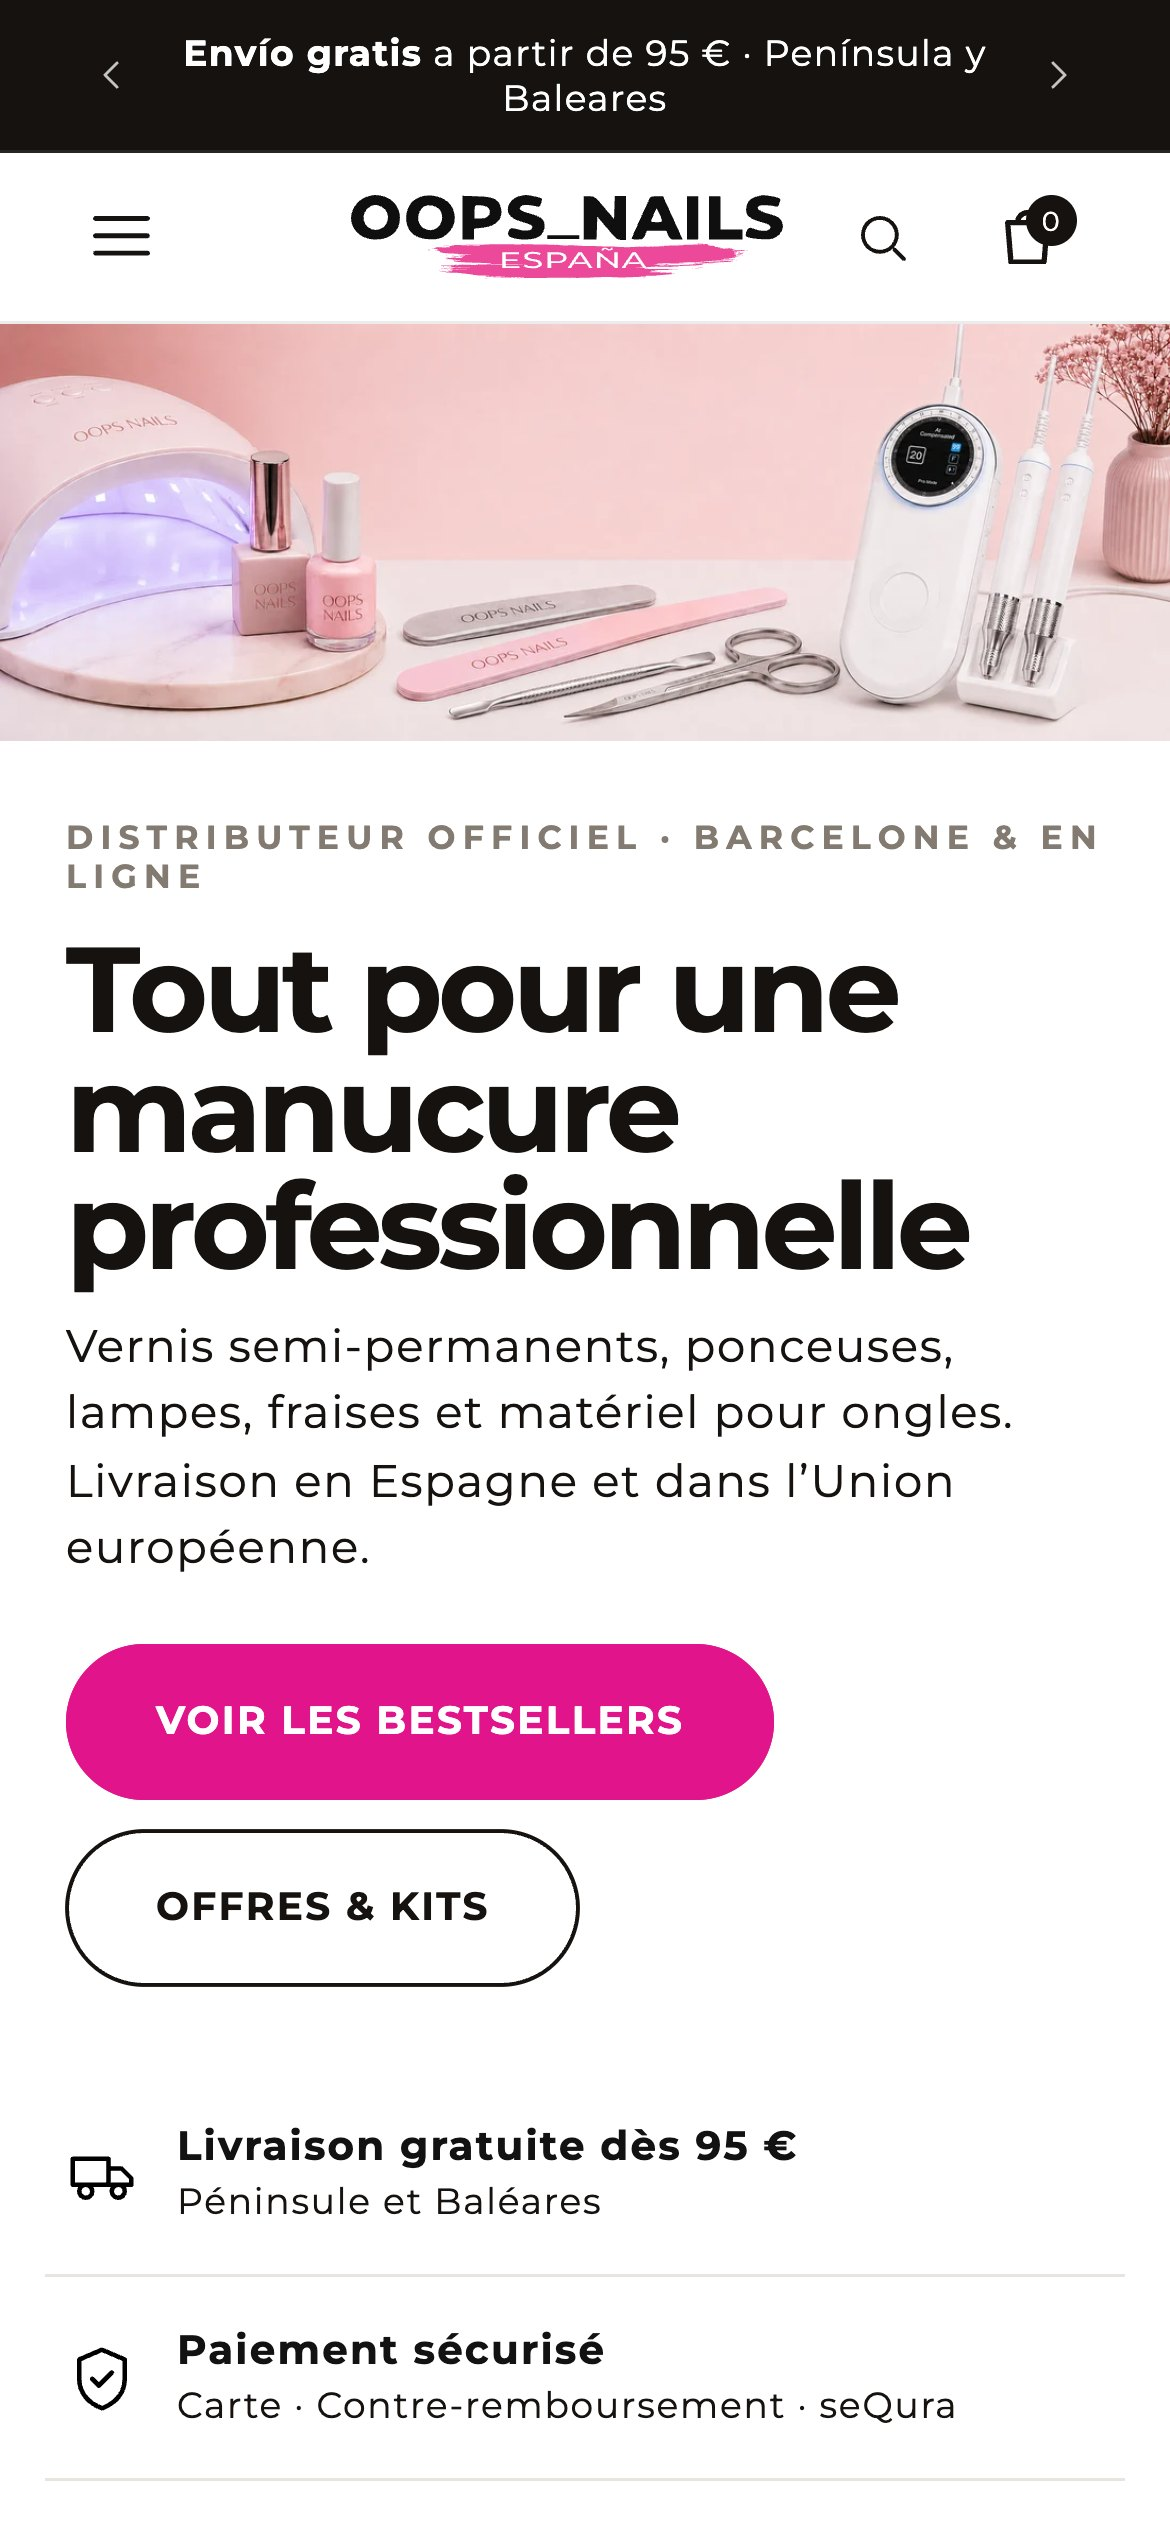
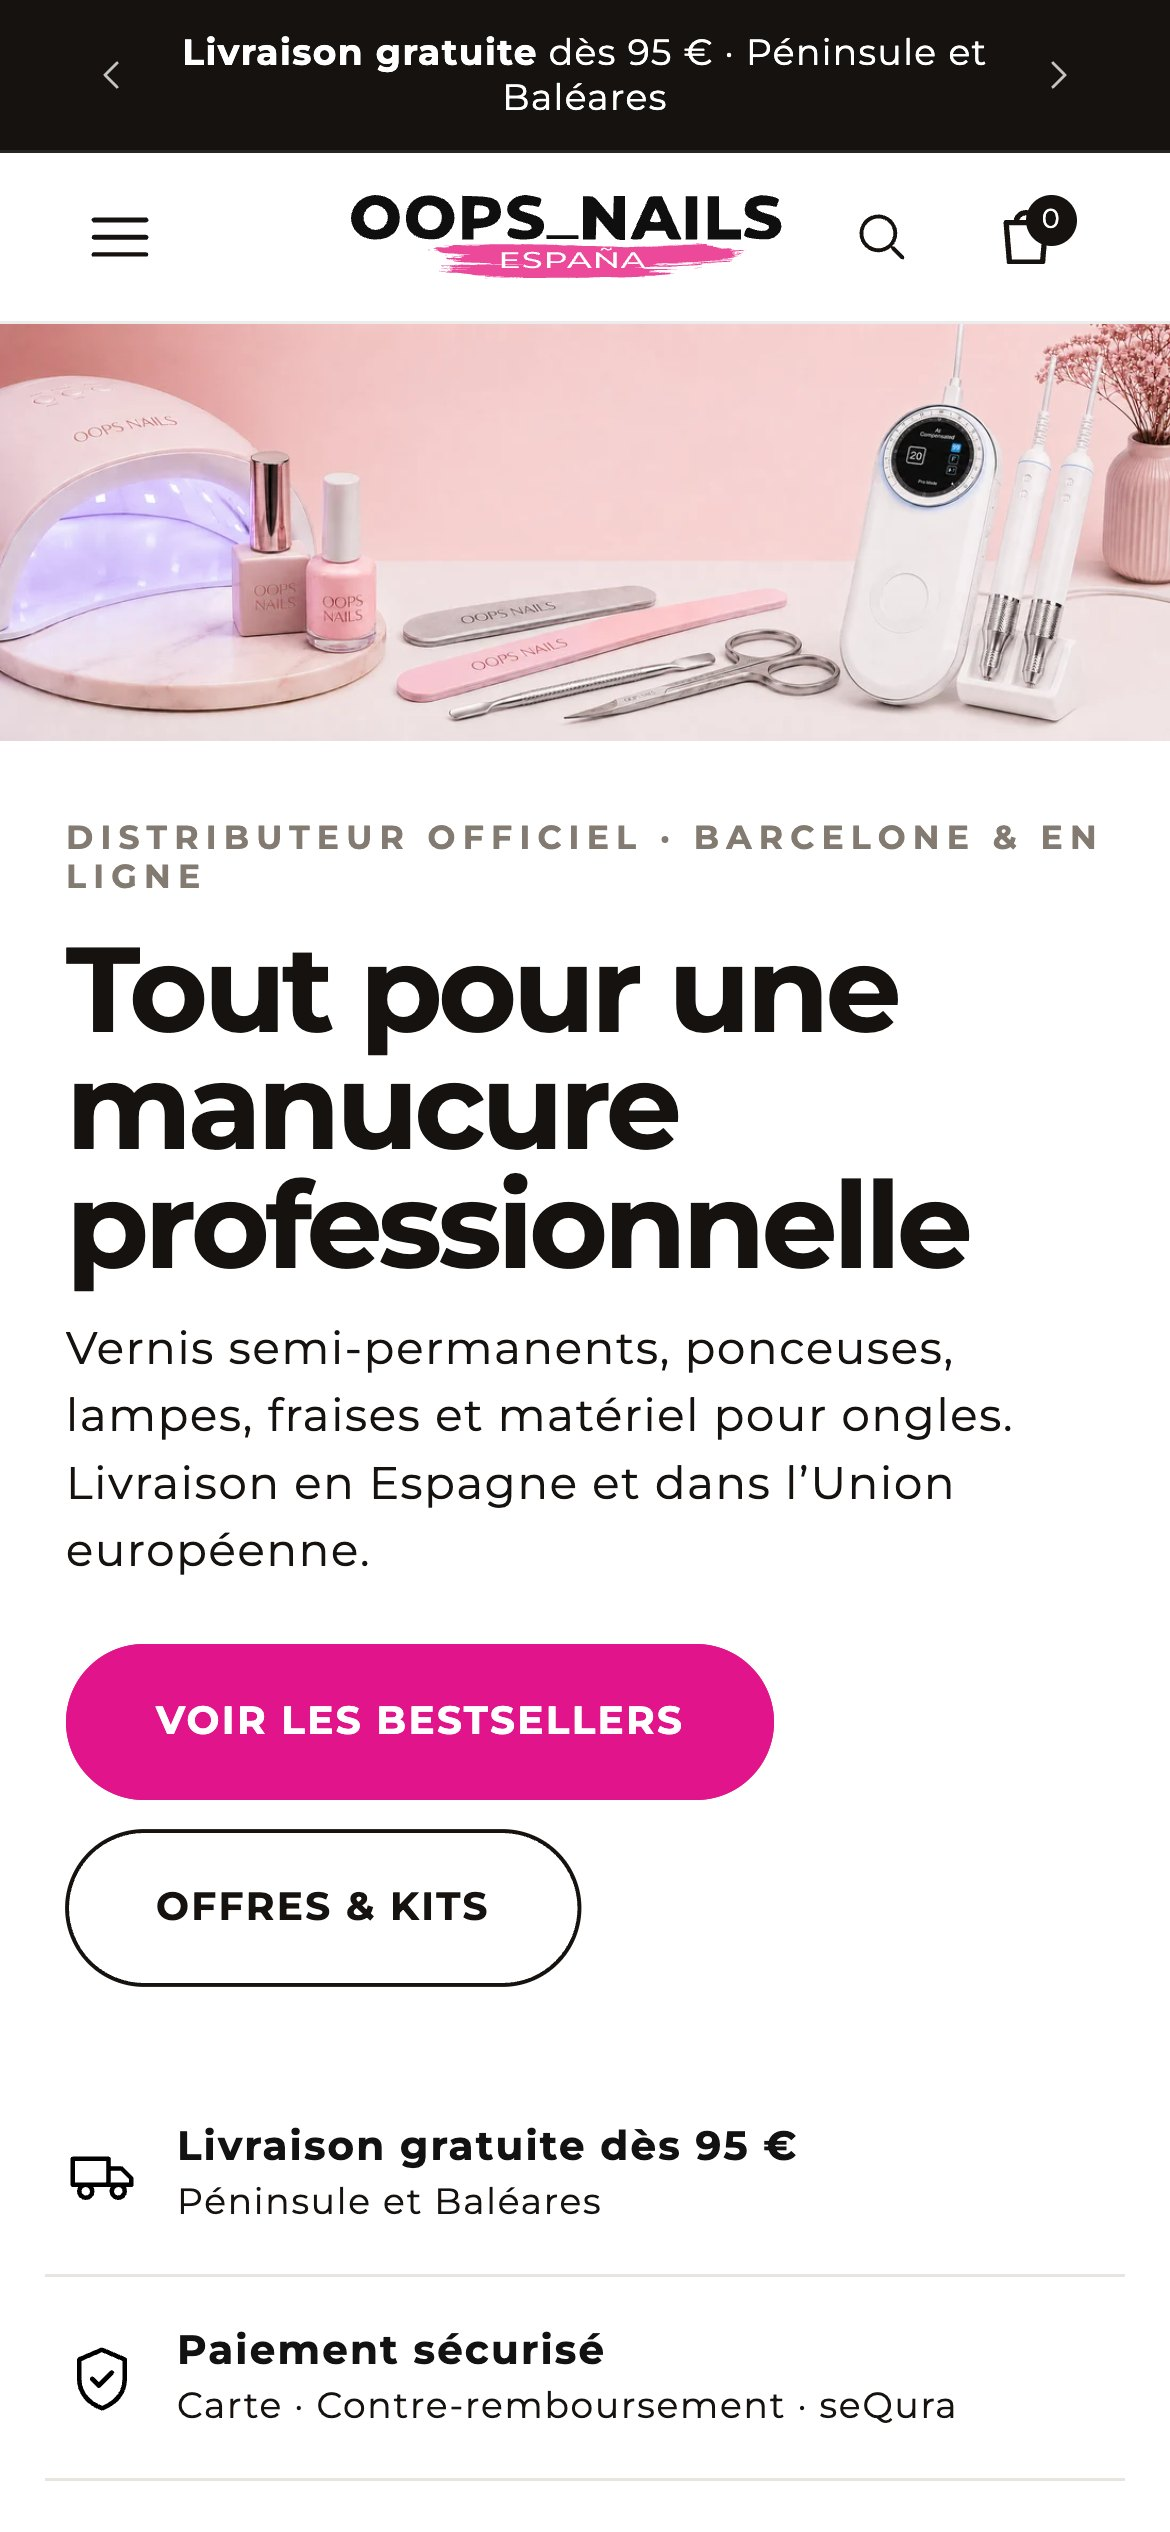
QA fixes: French top bar, decimals

diff --git a/index.html b/index.html
@@ -1244,17 +1244,17 @@ a.irow:hover b{text-decoration:underline}
 <div class="txt t2"><div class="lbl"><span class="pill">We propose</span><svg class="conn" viewBox="0 0 54 12"><path d="M0 6h50M45 1.5 50 6l-5 4.5" fill="none" stroke="#6d6d6d" stroke-width="1.5"/></svg></div><p>A row of round shade chips under the price: “Tono: #0058 · 9 tonos Dopamine”. Each chip opens that shade, the current one is outlined. The row builds itself for every line with several shades.</p><p>The second screen shows the same page with only that change.</p></div>
 <div class="v2"><div><div class="phone"><div class="screen"><div class="island"></div><div class="sbar"><span>9:41</span><svg viewBox="0 0 24 11"><rect x=".5" y=".5" width="20" height="10" rx="3" fill="none" stroke="#111"/><rect x="2" y="2" width="16" height="7" rx="1.5" fill="#111"/><rect x="21.5" y="3.5" width="1.8" height="4" rx=".9" fill="#111"/></svg></div><div class="view"><img class="shot" src="img/fix-pdp-shades-m.jpg" alt=""></div><div class="url"><span>oopsnailsbcn.es</span></div></div></div><div class="cap">The same page with the 9 shades of the line</div></div></div>
 <div class="cardcol"><div class="benefit-top"><span class="pill">Why it pays</span><span class="arrow"><svg width="14" height="16" viewBox="0 0 14 16"><path d="M7 1v13M1.5 8.5 7 14l5.5-5.5" fill="none" stroke="#444" stroke-width="1.6"/></svg></span></div>
-<div class="card"><p>Masters buy several shades of one line at once; one tap per shade keeps them on product pages and adds bottles to the same order.</p><div class="stats"><div><b>9</b><span>shades in the Dopamine line</span></div><div><b>343</b><span>gels to search through today</span></div></div><p class="comp">Like at <a href="https://www.druni.es/esmalte-semipermanente-semilac-tonos-rosas" target="_blank" rel="noopener">Druni ↗</a> — Semilac pages offer “Comparar tonos” and all shade options right on the product.</p></div><div class="ptag"><span>Price</span><b>$120</b><em>6 h &#183; $20/h</em></div></div>
+<div class="card"><p>Masters buy several shades of one line at once; one tap per shade keeps them on product pages and adds bottles to one order.</p><div class="stats"><div><b>9</b><span>shades in the Dopamine line</span></div><div><b>343</b><span>gels to search through today</span></div></div><p class="comp">Like at <a href="https://www.druni.es/esmalte-semipermanente-semilac-tonos-rosas" target="_blank" rel="noopener">Druni ↗</a> — Semilac pages offer “Comparar tonos” and all shade options right on the product.</p></div><div class="ptag"><span>Price</span><b>$120</b><em>6 h &#183; $20/h</em></div></div>
 </div></section>
 <section class="slide" id="p11"> <img class="silk sm" src="img/silk.png" alt="">
 <div class="shead"><span class="num">05</span><h2><span class="sev crit">First wave</span>The home page keeps the phone busy, so taps answer late<span class="dev">Phone</span></h2></div>
 <div class="pbody">
-<div class="txt t1"><div class="lbl"><span class="pill">Today</span><svg class="conn" viewBox="0 0 54 12"><path d="M0 6h50M45 1.5 50 6l-5 4.5" fill="none" stroke="#6d6d6d" stroke-width="1.5"/></svg></div><p>The four product-tab blocks on the home page load all their tabs at once: 252 product cards, 216 of them in tabs nobody has opened yet. The page is 2,5 MB of HTML and 12 398 elements.</p><p>On a mid-range phone with 4G, a tap on the menu 5 seconds after opening takes 1,2 s to answer — the menu is caught half-way.</p><p class="fine-note">Verified on iPhone (390×844), 9 Oct 2026. · <a href="https://oopsnailsbcn.es/" target="_blank" rel="noopener">open the page ↗</a></p></div>
-<div class="v1"><div><div class="phone"><div class="screen"><div class="island"></div><div class="sbar"><span>9:41</span><svg viewBox="0 0 24 11"><rect x=".5" y=".5" width="20" height="10" rx="3" fill="none" stroke="#111"/><rect x="2" y="2" width="16" height="7" rx="1.5" fill="#111"/><rect x="21.5" y="3.5" width="1.8" height="4" rx=".9" fill="#111"/></svg></div><div class="view"><img class="shot" src="img/now-speed-menu-m.jpg" alt=""></div><div class="url"><span>oopsnailsbcn.es</span></div></div></div><div class="cap">Today — 0,5 s after the tap</div></div></div>
+<div class="txt t1"><div class="lbl"><span class="pill">Today</span><svg class="conn" viewBox="0 0 54 12"><path d="M0 6h50M45 1.5 50 6l-5 4.5" fill="none" stroke="#6d6d6d" stroke-width="1.5"/></svg></div><p>The four product-tab blocks on the home page load all their tabs at once: 252 product cards, 216 of them in tabs nobody has opened yet. The page is 2.5 MB of HTML and 12 398 elements.</p><p>On a mid-range phone with 4G, a tap on the menu 5 seconds after opening takes 1.2 s to answer — the menu is caught half-way.</p><p class="fine-note">Verified on iPhone (390×844), 9 Oct 2026. · <a href="https://oopsnailsbcn.es/" target="_blank" rel="noopener">open the page ↗</a></p></div>
+<div class="v1"><div><div class="phone"><div class="screen"><div class="island"></div><div class="sbar"><span>9:41</span><svg viewBox="0 0 24 11"><rect x=".5" y=".5" width="20" height="10" rx="3" fill="none" stroke="#111"/><rect x="2" y="2" width="16" height="7" rx="1.5" fill="#111"/><rect x="21.5" y="3.5" width="1.8" height="4" rx=".9" fill="#111"/></svg></div><div class="view"><img class="shot" src="img/now-speed-menu-m.jpg" alt=""></div><div class="url"><span>oopsnailsbcn.es</span></div></div></div><div class="cap">Today — 0.5 s after the tap</div></div></div>
 <div class="txt t2"><div class="lbl"><span class="pill">We propose</span><svg class="conn" viewBox="0 0 54 12"><path d="M0 6h50M45 1.5 50 6l-5 4.5" fill="none" stroke="#6d6d6d" stroke-width="1.5"/></svg></div><p>Each tab block shows its first tab straight away and loads the other tabs only when they are tapped. The design and the products stay the same.</p><p>The second screen shows the same tap at the same moment on the lighter page.</p></div>
 <div class="v2"><div><div class="phone"><div class="screen"><div class="island"></div><div class="sbar"><span>9:41</span><svg viewBox="0 0 24 11"><rect x=".5" y=".5" width="20" height="10" rx="3" fill="none" stroke="#111"/><rect x="2" y="2" width="16" height="7" rx="1.5" fill="#111"/><rect x="21.5" y="3.5" width="1.8" height="4" rx=".9" fill="#111"/></svg></div><div class="view"><img class="shot" src="img/fix-speed-menu-m.jpg" alt=""></div><div class="url"><span>oopsnailsbcn.es</span></div></div></div><div class="cap">After — the menu is already open</div></div></div>
 <div class="cardcol"><div class="benefit-top"><span class="pill">Why it pays</span><span class="arrow"><svg width="14" height="16" viewBox="0 0 14 16"><path d="M7 1v13M1.5 8.5 7 14l5.5-5.5" fill="none" stroke="#444" stroke-width="1.6"/></svg></span></div>
-<div class="card"><p>Most visits start on the home page; when it answers taps straight away, people get to the catalogue instead of waiting.</p><div class="stats"><div><b>17,0 → 2,3 s</b><span>blocking time, Lighthouse, median of 3</span></div><div><b>1 170 → 385 ms</b><span>menu reaction to a tap</span></div></div></div><div class="ptag"><span>Price</span><b>$80</b><em>4 h &#183; $20/h</em></div></div>
+<div class="card"><p>Most visits start on the home page; when it answers taps straight away, people get to the catalogue instead of waiting.</p><div class="stats"><div><b>17.0 → 2.3 s</b><span>blocking time, Lighthouse, median of 3</span></div><div><b>1 170 → 385 ms</b><span>menu reaction to a tap</span></div></div></div><div class="ptag"><span>Price</span><b>$80</b><em>4 h &#183; $20/h</em></div></div>
 </div></section>
 <section class="slide divider" id="medium"> <img class="silk" src="img/silk.png" alt=""> <span class="sev imp">Second wave</span> <h2>8 changes that remove doubt before paying</h2> </section>
 <section class="slide" id="p04"> <img class="silk sm" src="img/silk.png" alt="">
@@ -1300,12 +1300,12 @@ a.irow:hover b{text-decoration:underline}
 <section class="slide" id="p12"> <img class="silk sm" src="img/silk.png" alt="">
 <div class="shead"><span class="num">10</span><h2><span class="sev imp">Second wave</span>The French home page is in Spanish<span class="dev">Phone</span></h2></div>
 <div class="pbody">
-<div class="txt t1"><div class="lbl"><span class="pill">Today</span><svg class="conn" viewBox="0 0 54 12"><path d="M0 6h50M45 1.5 50 6l-5 4.5" fill="none" stroke="#6d6d6d" stroke-width="1.5"/></svg></div><p>On oopsnailsbcn.es/fr the header and menu are French, but the first screen is Spanish: “Todo para una manicura profesional”, “VER BESTSELLERS”, “Envío gratis +95 €”, “Pago seguro”.</p><p class="fine-note">Verified on iPhone (390×844), 9 Oct 2026. · <a href="https://oopsnailsbcn.es/fr" target="_blank" rel="noopener">open the page ↗</a></p></div>
+<div class="txt t1"><div class="lbl"><span class="pill">Today</span><svg class="conn" viewBox="0 0 54 12"><path d="M0 6h50M45 1.5 50 6l-5 4.5" fill="none" stroke="#6d6d6d" stroke-width="1.5"/></svg></div><p>On oopsnailsbcn.es/fr the menu is French, but the top bar and the first screen are Spanish: “Envío gratis a partir de 95 €”, “Todo para una manicura profesional”, “VER BESTSELLERS”, “Pago seguro”.</p><p class="fine-note">Verified on iPhone (390×844), 9 Oct 2026. · <a href="https://oopsnailsbcn.es/fr" target="_blank" rel="noopener">open the page ↗</a></p></div>
 <div class="v1"><div><div class="phone"><div class="screen"><div class="island"></div><div class="sbar"><span>9:41</span><svg viewBox="0 0 24 11"><rect x=".5" y=".5" width="20" height="10" rx="3" fill="none" stroke="#111"/><rect x="2" y="2" width="16" height="7" rx="1.5" fill="#111"/><rect x="21.5" y="3.5" width="1.8" height="4" rx=".9" fill="#111"/></svg></div><div class="view"><img class="shot" src="img/now-fr-home-hero-m.jpg" alt=""></div><div class="url"><span>oopsnailsbcn.es</span></div></div></div><div class="cap">Today — Spanish under a French menu</div></div></div>
-<div class="txt t2"><div class="lbl"><span class="pill">We propose</span><svg class="conn" viewBox="0 0 54 12"><path d="M0 6h50M45 1.5 50 6l-5 4.5" fill="none" stroke="#6d6d6d" stroke-width="1.5"/></svg></div><p>The first screen translated into French — title, text, both buttons and the two trust lines. The English first screen is already translated.</p><p>The second screen shows the same page with only that change.</p></div>
+<div class="txt t2"><div class="lbl"><span class="pill">We propose</span><svg class="conn" viewBox="0 0 54 12"><path d="M0 6h50M45 1.5 50 6l-5 4.5" fill="none" stroke="#6d6d6d" stroke-width="1.5"/></svg></div><p>The top bar and the first screen translated into French — title, text, both buttons and the two trust lines. The English first screen is already translated.</p><p>The second screen shows the same page with only that change.</p></div>
 <div class="v2"><div><div class="phone"><div class="screen"><div class="island"></div><div class="sbar"><span>9:41</span><svg viewBox="0 0 24 11"><rect x=".5" y=".5" width="20" height="10" rx="3" fill="none" stroke="#111"/><rect x="2" y="2" width="16" height="7" rx="1.5" fill="#111"/><rect x="21.5" y="3.5" width="1.8" height="4" rx=".9" fill="#111"/></svg></div><div class="view"><img class="shot" src="img/fix-fr-home-hero-m.jpg" alt=""></div><div class="url"><span>oopsnailsbcn.es</span></div></div></div><div class="cap">The same page in French</div></div></div>
 <div class="cardcol"><div class="benefit-top"><span class="pill">Why it pays</span><span class="arrow"><svg width="14" height="16" viewBox="0 0 14 16"><path d="M7 1v13M1.5 8.5 7 14l5.5-5.5" fill="none" stroke="#444" stroke-width="1.6"/></svg></span></div>
-<div class="card"><p>You ship to France from 18,90 €; a French master who lands on Spanish text assumes the store is not for her.</p><div class="stats"><div><b>9</b><span>Spanish lines on the first screen</span></div><div><b>18,90 €</b><span>your delivery to France, from</span></div></div></div><div class="ptag"><span>Price</span><b>$40</b><em>2 h &#183; $20/h</em></div></div>
+<div class="card"><p>You ship to France from 18,90 €; a French master who lands on Spanish text assumes the store is not for her.</p><div class="stats"><div><b>9</b><span>Spanish lines on the first screen</span></div><div><b>4</b><span>Spanish messages in the top bar</span></div></div></div><div class="ptag"><span>Price</span><b>$40</b><em>2 h &#183; $20/h</em></div></div>
 </div></section>
 <section class="slide" id="p13"> <img class="silk sm" src="img/silk.png" alt="">
 <div class="shead"><span class="num">11</span><h2><span class="sev imp">Second wave</span>Sale prices use a different number format<span class="dev">Phone</span></h2></div>
@@ -1386,7 +1386,7 @@ a.irow:hover b{text-decoration:underline}
 <div class="txt t2"><div class="lbl"><span class="pill">We propose</span><svg class="conn" viewBox="0 0 54 12"><path d="M0 6h50M45 1.5 50 6l-5 4.5" fill="none" stroke="#6d6d6d" stroke-width="1.5"/></svg></div><p>A darker tint over the same photo, so the title and subtitle read clearly. Text and buttons stay as they are.</p><p>The second screen shows the same page with only that change.</p></div>
 <div class="v2"><div><div class="phone"><div class="screen"><div class="island"></div><div class="sbar"><span>9:41</span><svg viewBox="0 0 24 11"><rect x=".5" y=".5" width="20" height="10" rx="3" fill="none" stroke="#111"/><rect x="2" y="2" width="16" height="7" rx="1.5" fill="#111"/><rect x="21.5" y="3.5" width="1.8" height="4" rx=".9" fill="#111"/></svg></div><div class="view"><img class="shot" src="img/fix-loyalty-hero-m.jpg" alt=""></div><div class="url"><span>oopsnailsbcn.es</span></div></div></div><div class="cap">The same page, readable text</div></div></div>
 <div class="cardcol"><div class="benefit-top"><span class="pill">Why it pays</span><span class="arrow"><svg width="14" height="16" viewBox="0 0 14 16"><path d="M7 1v13M1.5 8.5 7 14l5.5-5.5" fill="none" stroke="#444" stroke-width="1.6"/></svg></span></div>
-<div class="card"><p>This page sells the programme; if the first lines are hard to read, fewer people tap Únete ahora.</p><div class="stats"><div><b>1,9 : 1</b><span>subtitle contrast today</span></div><div><b>5,1 : 1</b><span>after (4,5 : 1 is the usual minimum)</span></div></div></div><div class="ptag"><span>Price</span><b>$20</b><em>1 h &#183; $20/h</em></div></div>
+<div class="card"><p>This page sells the programme; if the first lines are hard to read, fewer people tap Únete ahora.</p><div class="stats"><div><b>1.9 : 1</b><span>subtitle contrast today</span></div><div><b>5.1 : 1</b><span>after (4.5 : 1 is the usual minimum)</span></div></div></div><div class="ptag"><span>Price</span><b>$20</b><em>1 h &#183; $20/h</em></div></div>
 </div></section>
 <section class="slide" id="strong"> <img class="silk sm" src="img/silk.png" alt=""> <div class="shead"><h2>What already works<small>The parts we keep — and build on.</small></h2></div> <div class="good"><div class="gcard"><div class="ck">✓</div><h3>Pay later with seQura</h3><p>Monthly instalments show under the button on expensive items — 29,20 € a month on the SUNX PRO MAX lamp.</p></div><div class="gcard"><div class="ck">✓</div><h3>Restock emails</h3><p>Sold-out products collect an email for when they are back.</p></div><div class="gcard"><div class="ck">✓</div><h3>Search that suggests</h3><p>Typing “dnka” suggests the brand, products and pages.</p></div><div class="gcard"><div class="ck">✓</div><h3>Add to cart from the grid</h3><p>Every card in a collection has its own Agregar al carrito button.</p></div><div class="gcard"><div class="ck">✓</div><h3>Honest stock counter</h3><p>“Últimas 3 unidades” takes the real stock figure.</p></div><div class="gcard"><div class="ck">✓</div><h3>Shop pickup in Barcelona</h3><p>Product pages say pickup is usually ready in 2 hours.</p></div><div class="gcard"><div class="ck">✓</div><h3>Sold-out items go last</h3><p>In Ofertas & Kits the first page is all in stock and the last page holds the sold-out items.</p></div></div> </section>
 <section class="slide" id="price"> <img class="silk sm" src="img/silk.png" alt=""> <div class="shead"><h2>Pricing</h2></div> <div class="plist" style="max-width:900px;margin-top:10px"><div class="prow" style="padding:22px 0;align-items:baseline"><i></i><span style="font:700 24px/1.3 'Montserrat',sans-serif">Store improvements</span><em style="font-size:15px">39.5 h · $20/h · items 01–18</em><b style="font-size:28px">$790</b></div></div> </section>
